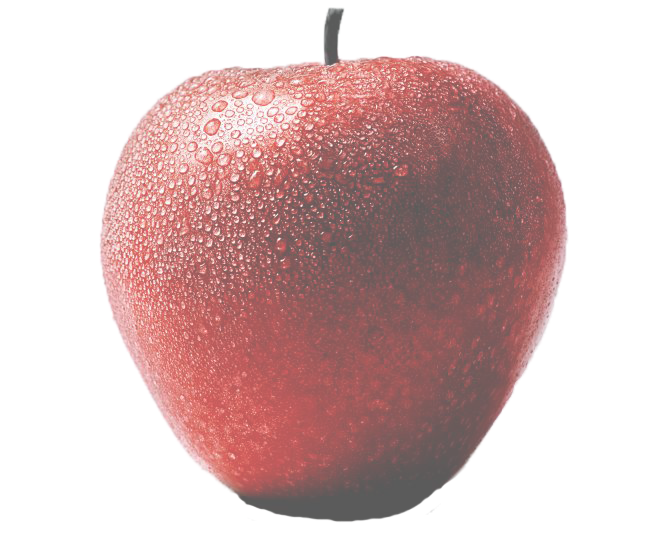
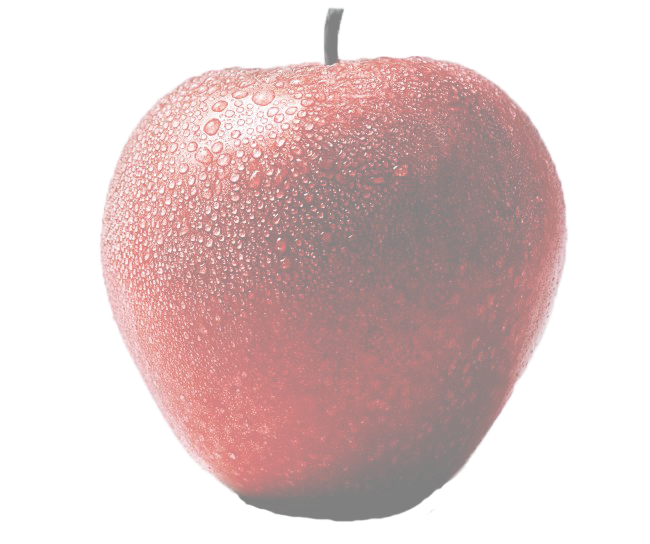
updates

diff --git a/style.css b/style.css
@@ -11,11 +11,12 @@ body{
 	}
 
 #content{overflow:auto;
-		padding: 20px;
+	width:100%;
+		padding: 10px;
 		Background-image:url("images/apple1.png");
 		Background-repeat:no-repeat;
 		Background-attachment:fixed;
-		Background-position:90% 120%;
+		Background-position:100% 120%;
 	}
 
 nav, header, .footer{margin:2%;}
@@ -28,16 +29,13 @@ nav, header, .footer{margin:2%;}
 margin-right:1%
 padding-left:2%}
 
-.coll1 {width:80%;
+.coll1 {width:75%;
 			float:left;
 			margin:1%;}
 					
 .coll1{ margin-right:0%}
 
-li{
-display: inline;
-padding: 0.5em;
-}
+
 
 
 /*PAGE*/
@@ -50,21 +48,17 @@ heading{
         margin-right:auto;
 		font-family: 'Rock Salt', cursive;
 		color:#971c34;
+		font-weight:bold;
+		
 	}
 	
-	
-main {
-	width: 75%;
-	float: center;
-	padding-left: 30px;
-}
 
 h2, p, h3, h4{ color:#2d060c;
 	font-family: 'Quicksand', cursive;
 	}
 
 h3{ text-decoration:underline;}
-/* DIVS*/
+
 
 
 /*CLASS*/
@@ -74,37 +68,26 @@ h3{ text-decoration:underline;}
 
 .title{ padding-left:40%;}
 
-.dinner{
-width:6%;
-padding-left:1%;
-padding-right:1%;
-border-top: 1% solid #665544;
-border-bottom: 1% solid #665544;
-border-left: 1% solid #665544;
-border-right: 1% solid #665544;
-}
-
 
 /* NAV*/
 nav {
 	height: 30px;  
 	text-transform: uppercase;
-
+	background-color: rgba(0,0,0,0);
 }
 
 nav ul li { 
 	float: left;
 	list-style-type: none; 
-	background: #555;
+	background:clear;
 	width:100%;
 	text-align: center;
-	background-color:#ffffff; 
-	
+	background-color: rgba(0,0,0,0); 
 }
 
 nav ul li a {
 	text-decoration: none;
-	color: #660033 ; 
+	color: #4d0800 ; 
 	font-family: 'Bad Script', cursive;
 }
 

diff --git a/menu/index.html b/menu/index.html
@@ -41,7 +41,6 @@
 <p>Battered Snails, Shiitakes, Bacon & Onions Sauce Bourguignonne</p>
 <p>Quiche au  Rouquefort  et aux Poireaux</p>
 <p>Rouquefort and Leek Quiche</p>
-<p>Cuisine Bourgeoise</p>
 <br>
 
 <h3>Lea Entrees</h3>
@@ -66,10 +65,9 @@
 <h3>Dessert</h3>
 
 <p>A Selection from our Classical Bakeshop</p>
-
 </div> 
 
-
+</div>
 <div class="footer"> <p>&copy; Copyright 2016</p></div>
 
 </body>

diff --git a/locations/index.html b/locations/index.html
@@ -1,7 +1,7 @@
 <!doctype html>
 <html>
 <head>
-<link href='https://fonts.googleapis.com/css?family=Quicksand|Bad+Script|Rock+Salt' rel='stylesheet' type='text/css'>
+<link href='https://fonts.googleapis.com/css?family=Quicksand|Bad+Script|Rock+Salt', cursive;' rel='stylesheet' type='text/css'>
 <title>Locations</title>
 <link rel="stylesheet" href="../style.css"/>
 <div id="content">
